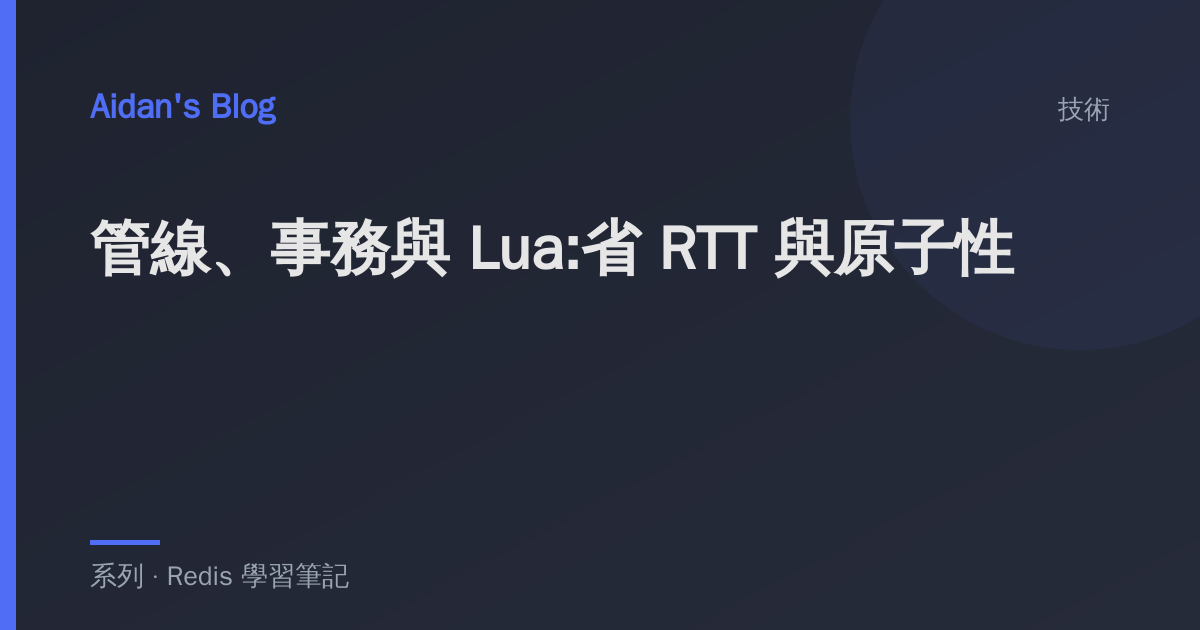
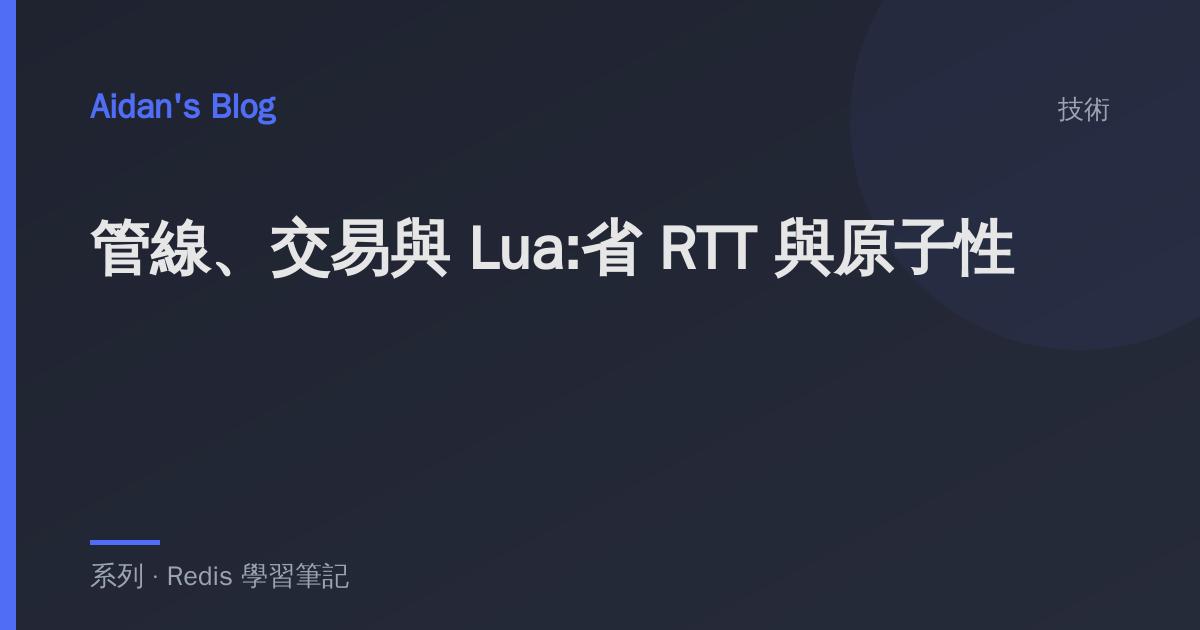
fix(content): 清理三個用詞殘留(並發 / 事務 / 吞吐),共 52 處
全站術語表合併時抓到的既有不一致,規則本身早就存在,只是沒執行:

- 並發 → 並行(25 處):風格指南 A 區既有規則。集中在 ddia-transactions,
  另有 ddia-replication / ddia-streaming / redis-* / sre-cascading-failures。
  全部是 concurrency 語意,無誤判(平行 = parallelism 保持不動)。
- 事務 → 交易(21 處):全站 113:21,21 處全在 Redis 系列(該系列自己也
  混用 交易 4 : 事務 21)。
- 吞吐 → throughput(6 處):風格指南 D 區 2026-07-17 已規定環境語意一律
  英文。逐處處理而非全域替換,因為英文詞前後要留空格,而且有兩處在 SVG 裡。

檢查過的事:

- 沒有誤判:並發無「並發症」類詞、事務無「事務所」類詞。
- 錨點安全:改到兩個 h3 標題,全站唯一的 [[slug#錨點]] 連結指向 btl-5,
  不受影響。
- URL 不變:只有 redis-pipeline-transaction 的 title 改動(管線、事務 →
  管線、交易),檔名與 slug 不動,OG 圖已重生。
- SVG 沒撐爆:responsibility-funnel 的「整條產線的 throughput 上限」實際
  render 過,置中後仍在 viewBox 內、不與下一行碰撞。

npm run build 通過、npm test 86/86 通過。

Claude-Session: https://claude.ai/code/session_01HNr2b3q1MjNhRiDCmNnmup

Changed region(s): [[0.2158, 0.3317, 0.3392, 0.4524]]

diff --git a/src/content/blog/redis-cache-patterns.md b/src/content/blog/redis-cache-patterns.md
@@ -2,7 +2,7 @@
 title: "快取三大災難:穿透、擊穿、雪崩,與正確解法"
 date: 2026-07-17
 category: tech
-description: "把 Redis 當快取,最經典的模式是 cache-aside,但它有三個著名破口:穿透(查根本不存在的 key,cache 永遠擋不住)、擊穿(單一熱 key 剛好過期,並發全湧向 DB)、雪崩(大量 key 同時過期,DB 大範圍被打爆)。三個名字很像、常被搞混,但其實是三種不同的失敗——穿透是查不存在、擊穿是一個熱點、雪崩是一大片。這篇把三者的差別講清楚,並對症下藥:空值快取加布隆過濾器、互斥鎖重建、隨機 TTL 打散。"
+description: "把 Redis 當快取,最經典的模式是 cache-aside,但它有三個著名破口:穿透(查根本不存在的 key,cache 永遠擋不住)、擊穿(單一熱 key 剛好過期,並行全湧向 DB)、雪崩(大量 key 同時過期,DB 大範圍被打爆)。三個名字很像、常被搞混,但其實是三種不同的失敗——穿透是查不存在、擊穿是一個熱點、雪崩是一大片。這篇把三者的差別講清楚,並對症下藥:空值快取加布隆過濾器、互斥鎖重建、隨機 TTL 打散。"
 tags:
   - redis
   - cache
@@ -18,7 +18,7 @@ draft: false
 先把三者的**差別**講清楚——搞懂它們「破在哪」,解法就不會亂套:
 
 <figure style="margin:1.5rem 0;text-align:center;">
-  <svg viewBox="0 0 580 210" role="img" aria-label="快取三大災難的對比。穿透是查根本不存在的 key,cache 和資料庫都沒有,cache 擋不住所以每次都直達資料庫。擊穿是單一熱門 key 剛好過期,瞬間大量並發同時 miss 全湧向資料庫重建。雪崩是大量 key 在同一時間一起過期,大範圍 miss 把資料庫打崩引發連鎖。三者共通點都是請求繞過 cache 打爆資料庫,差別在破口:不存在的 key、一個熱點、一大片。" style="width:100%;max-width:600px;height:auto;margin:0 auto;">
+  <svg viewBox="0 0 580 210" role="img" aria-label="快取三大災難的對比。穿透是查根本不存在的 key,cache 和資料庫都沒有,cache 擋不住所以每次都直達資料庫。擊穿是單一熱門 key 剛好過期,瞬間大量並行同時 miss 全湧向資料庫重建。雪崩是大量 key 在同一時間一起過期,大範圍 miss 把資料庫打崩引發連鎖。三者共通點都是請求繞過 cache 打爆資料庫,差別在破口:不存在的 key、一個熱點、一大片。" style="width:100%;max-width:600px;height:auto;margin:0 auto;">
     <text x="290" y="20" fill="#e6e6e6" font-size="10.5" text-anchor="middle" font-weight="bold">三種破口,長得不一樣</text>
     <rect x="10" y="32" width="182" height="130" rx="8" fill="#3a2d1f" stroke="#e0733a" stroke-width="1.4"/>
     <text x="101" y="52" fill="#e0733a" font-size="10" text-anchor="middle" font-weight="bold">穿透 Penetration</text>
@@ -29,7 +29,7 @@ draft: false
     <rect x="199" y="32" width="182" height="130" rx="8" fill="#3a3320" stroke="#d6a45c" stroke-width="1.4"/>
     <text x="290" y="52" fill="#d6a45c" font-size="10" text-anchor="middle" font-weight="bold">擊穿 Breakdown</text>
     <rect x="219" y="62" width="142" height="24" rx="4" fill="#1f2330" stroke="#d6a45c" stroke-width="1"/><text x="290" y="78" fill="#e6e6e6" font-size="8" text-anchor="middle">單一熱 key ⏰ 剛過期</text>
-    <text x="290" y="104" fill="#9aa4b2" font-size="8" text-anchor="middle">瞬間大量並發同時 miss</text>
+    <text x="290" y="104" fill="#9aa4b2" font-size="8" text-anchor="middle">瞬間大量並行同時 miss</text>
     <text x="290" y="122" fill="#9aa4b2" font-size="8" text-anchor="middle">→ 全湧向 DB 重建</text>
     <text x="290" y="146" fill="#d6a45c" font-size="8.6" text-anchor="middle" font-weight="bold">集中打一個點</text>
     <rect x="388" y="32" width="182" height="130" rx="8" fill="#3a2632" stroke="#e05a7d" stroke-width="1.4"/>
@@ -41,7 +41,7 @@ draft: false
     <text x="290" y="184" fill="#9aa4b2" font-size="8.4" text-anchor="middle">共通:請求繞過 cache 打爆 DB;差別在破口——</text>
     <text x="290" y="200" fill="#d6a45c" font-size="8.4" text-anchor="middle" font-weight="bold">不存在的 key(穿透)· 一個熱點(擊穿)· 一大片(雪崩)</text>
   </svg>
-  <figcaption style="font-size:.85rem;color:#9aa4b2;margin-top:.4rem;">一句話記住差別:<b style="color:#e0733a">穿透</b>是查「<b>不存在</b>」的資料,cache 和 DB 都沒有,所以每一次都會打到 DB;<b style="color:#d6a45c">擊穿</b>是「<b>一個</b>熱門 key」剛好過期的瞬間,大量並發同時撲空、集中打向那一個點;<b style="color:#e05a7d">雪崩</b>是「<b>一大片</b> key」同時失效(常因為都設一樣的 TTL,或 Redis 整台掛掉),造成大範圍崩塌。搞清楚是「不存在 / 一個熱點 / 一大片」,才知道該用哪種解法</figcaption>
+  <figcaption style="font-size:.85rem;color:#9aa4b2;margin-top:.4rem;">一句話記住差別:<b style="color:#e0733a">穿透</b>是查「<b>不存在</b>」的資料,cache 和 DB 都沒有,所以每一次都會打到 DB;<b style="color:#d6a45c">擊穿</b>是「<b>一個</b>熱門 key」剛好過期的瞬間,大量並行同時撲空、集中打向那一個點;<b style="color:#e05a7d">雪崩</b>是「<b>一大片</b> key」同時失效(常因為都設一樣的 TTL,或 Redis 整台掛掉),造成大範圍崩塌。搞清楚是「不存在 / 一個熱點 / 一大片」,才知道該用哪種解法</figcaption>
 </figure>
 
 ## 對症下藥:三種破口,三種補法
@@ -66,7 +66,7 @@ draft: false
   <figcaption style="font-size:.85rem;color:#9aa4b2;margin-top:.4rem;"><b style="color:#e0733a">穿透</b>用「<b>空值也快取</b>」把不存在的查詢也擋在 cache(配短 TTL 避免髒資料),更嚴謹再加<b>布隆過濾器</b>在最前面攔掉一定不存在的 key;<b style="color:#d6a45c">擊穿</b>用<b>互斥鎖</b>,讓熱 key 過期時只有一個請求去重建、其餘乖乖等,避免萬箭齊發;<b style="color:#e05a7d">雪崩</b>用<b>隨機 TTL</b> 把過期時間錯開,別讓大家在同一秒到期——這招跟 <a href="/blog/sre-cron/">可靠 cron</a> 對付午夜驚群的 jitter,是同一個道理</figcaption>
 </figure>
 
-三種解法的手法不同,但骨子裡是同一句話:**別讓失敗集中在同一個時間、同一個點。** 空值快取是「把打不到的擋在門外」、互斥鎖是「把並發收斂成一個」、隨機 TTL 是「把同時發生的打散開」——擋住、收斂、打散,對應三種集中的破口。至於擊穿要用的互斥鎖,牽涉到「怎麼在分散式下正確地搶一把鎖」,那本身是個大題目,留到下一篇的分散式鎖細講。
+三種解法的手法不同,但骨子裡是同一句話:**別讓失敗集中在同一個時間、同一個點。** 空值快取是「把打不到的擋在門外」、互斥鎖是「把並行收斂成一個」、隨機 TTL 是「把同時發生的打散開」——擋住、收斂、打散,對應三種集中的破口。至於擊穿要用的互斥鎖,牽涉到「怎麼在分散式下正確地搶一把鎖」,那本身是個大題目,留到下一篇的分散式鎖細講。
 
 ## 落成命令:三種補法怎麼下
 
@@ -88,7 +88,7 @@ SET article:404 "" EX 30
 
 ### 三個名字很像,但本質是三種不同的集中
 
-穿透、擊穿、雪崩,我剛學時被這三個中文名搞得暈頭轉向——它們聽起來就像同一件事的三種說法。真正把它們釐清,是我意識到差別只在一個維度:**「打到 DB 的請求,為什麼集中?」** 穿透是因為查的東西根本不存在、cache 這道牆天生擋不住(空間上的漏);擊穿是因為一個熱點在過期瞬間、並發全撞上來(時間上的一個點);雪崩是因為一大片 key 剛好同時到期(時間上的一大片)。把它拆成「不存在 / 一個點 / 一大片」,名字就不再需要死背,而是能從情境自己推出來。**遇到一組容易混淆的術語,找到那個能區分它們的維度,比背定義有用一百倍。**
+穿透、擊穿、雪崩,我剛學時被這三個中文名搞得暈頭轉向——它們聽起來就像同一件事的三種說法。真正把它們釐清,是我意識到差別只在一個維度:**「打到 DB 的請求,為什麼集中?」** 穿透是因為查的東西根本不存在、cache 這道牆天生擋不住(空間上的漏);擊穿是因為一個熱點在過期瞬間、並行全撞上來(時間上的一個點);雪崩是因為一大片 key 剛好同時到期(時間上的一大片)。把它拆成「不存在 / 一個點 / 一大片」,名字就不再需要死背,而是能從情境自己推出來。**遇到一組容易混淆的術語,找到那個能區分它們的維度,比背定義有用一百倍。**
 
 ### 這些解法的共通精神:消除「同步性」
 

diff --git a/src/content/blog/redis-pipeline-transaction.md b/src/content/blog/redis-pipeline-transaction.md
@@ -1,5 +1,5 @@
 ---
-title: "管線、事務與 Lua:省 RTT 與原子性"
+title: "管線、交易與 Lua:省 RTT 與原子性"
 date: 2026-07-21
 category: tech
 tags:
@@ -10,7 +10,7 @@ seriesOrder: 11
 comments: true
 draft: false
 ---
-有三個東西常被混在一起,其實各解**完全不同**的問題:**pipeline** 解「網路來回太多」、**MULTI/EXEC**(事務)解「一組命令要一起執行不被插隊」、**Lua** 解「要原子、又要帶邏輯」。搞混它們,你會拿 pipeline 當事務用、或以為 Redis 事務像資料庫一樣能 rollback——兩個都會踩坑。這篇把三者的分工一次講清。
+有三個東西常被混在一起,其實各解**完全不同**的問題:**pipeline** 解「網路來回太多」、**MULTI/EXEC**(交易)解「一組命令要一起執行不被插隊」、**Lua** 解「要原子、又要帶邏輯」。搞混它們,你會拿 pipeline 當交易用、或以為 Redis 交易像資料庫一樣能 rollback——兩個都會踩坑。這篇把三者的分工一次講清。
 
 ## Pipelining:把 N 次往返壓成 1 次
 
@@ -43,10 +43,10 @@ draft: false
 
 ## MULTI/EXEC:一起執行,但別叫它 ACID
 
-`MULTI` 開一個事務,之後的命令**先排隊不執行**,直到 `EXEC` 才**一次跑完、中間不被別的客戶端插隊**。聽起來像資料庫事務,但有個關鍵差異會嚇到人:**Redis 事務不能 rollback。**
+`MULTI` 開一個交易,之後的命令**先排隊不執行**,直到 `EXEC` 才**一次跑完、中間不被別的客戶端插隊**。聽起來像資料庫交易,但有個關鍵差異會嚇到人:**Redis 交易不能 rollback。**
 
 <figure style="margin:1.5rem 0;text-align:center;">
-  <svg viewBox="0 0 580 212" role="img" aria-label="MULTI EXEC 事務與 WATCH 樂觀鎖。上排:MULTI 之後命令先排隊不執行,EXEC 時一次跑完、中間不被插隊,達成隔離。但沒有 rollback,如果某一條在執行時出錯,例如對一個 String 下 LPUSH,那一條失敗,後面的命令照樣執行。下排:WATCH 盯著一把 key,如果在 EXEC 之前這把 key 被別的客戶端改過,EXEC 就回 nil、整個事務作廢,由你自己重試,這是樂觀鎖 CAS。" style="width:100%;max-width:600px;height:auto;margin:0 auto;">
+  <svg viewBox="0 0 580 212" role="img" aria-label="MULTI EXEC 交易與 WATCH 樂觀鎖。上排:MULTI 之後命令先排隊不執行,EXEC 時一次跑完、中間不被插隊,達成隔離。但沒有 rollback,如果某一條在執行時出錯,例如對一個 String 下 LPUSH,那一條失敗,後面的命令照樣執行。下排:WATCH 盯著一把 key,如果在 EXEC 之前這把 key 被別的客戶端改過,EXEC 就回 nil、整個交易作廢,由你自己重試,這是樂觀鎖 CAS。" style="width:100%;max-width:600px;height:auto;margin:0 auto;">
     <defs><marker id="mt" markerWidth="7" markerHeight="7" refX="5" refY="3" orient="auto"><path d="M0,0 L0,6 L6,3 z" fill="#9aa4b2"/></marker></defs>
     <text x="290" y="16" fill="#e6e6e6" font-size="10.5" text-anchor="middle" font-weight="bold">MULTI/EXEC:一起執行不被插隊,但不能 rollback</text>
     <rect x="16" y="30" width="66" height="30" rx="6" fill="#26324a" stroke="#4f6df5" stroke-width="1.4"/><text x="49" y="49" fill="#4f6df5" font-size="9" text-anchor="middle" font-weight="bold">MULTI</text>
@@ -65,7 +65,7 @@ draft: false
     <rect x="398" y="138" width="168" height="36" rx="6" fill="#3a2626" stroke="#e05a7d" stroke-width="1.3"/><text x="482" y="153" fill="#e05a7d" font-size="8" text-anchor="middle">被改 → EXEC 回 nil 作廢</text><text x="482" y="167" fill="#9aa4b2" font-size="7" text-anchor="middle">→ 你自己重試</text>
     <text x="290" y="198" fill="#9aa4b2" font-size="8" text-anchor="middle">MULTI 給你「一起跑、不被插隊」;WATCH 給你「有人搶先就作廢」——但都不是 rollback</text>
   </svg>
-  <figcaption style="font-size:.85rem;color:#9aa4b2;margin-top:.4rem;">Redis 事務保證的是<b style="color:#54b890">「一起執行、不被插隊」</b>(隔離),而<b style="color:#e05a7d">不是「全成功或全失敗」</b>——某條命令在執行時出錯,前後的命令<b>照樣執行</b>,不會回滾。(唯一例外:命令有語法錯,`EXEC` 前就會整批拒絕。)要處理「讀了再改」的競態,配 <b style="color:#d6a45c">WATCH</b>:盯住一把 key,只要它在 <code>EXEC</code> 前被別人改過,整個事務就<b>作廢回 nil</b>,由你重試——這是樂觀鎖(CAS),不是鎖住別人,是「有人搶先我就重來」</figcaption>
+  <figcaption style="font-size:.85rem;color:#9aa4b2;margin-top:.4rem;">Redis 交易保證的是<b style="color:#54b890">「一起執行、不被插隊」</b>(隔離),而<b style="color:#e05a7d">不是「全成功或全失敗」</b>——某條命令在執行時出錯,前後的命令<b>照樣執行</b>,不會回滾。(唯一例外:命令有語法錯,`EXEC` 前就會整批拒絕。)要處理「讀了再改」的競態,配 <b style="color:#d6a45c">WATCH</b>:盯住一把 key,只要它在 <code>EXEC</code> 前被別人改過,整個交易就<b>作廢回 nil</b>,由你重試——這是樂觀鎖(CAS),不是鎖住別人,是「有人搶先我就重來」</figcaption>
 </figure>
 
 落成命令,一個「安全扣款」的樂觀鎖長這樣:
@@ -98,11 +98,11 @@ end
 
 ### 「省 RTT」和「原子性」是兩個問題,先分清是哪個
 
-我看過最常見的誤用,是拿 pipeline 當事務——以為把命令打包送出,它們就會「一起、不被打斷」。不會。**pipeline 解的是網路(來回太多),事務/Lua 解的是並行(不想被插隊),這是兩個維度。** 想通這點後,我選工具的第一問永遠是:**我現在痛的是網路,還是並行?** 痛網路(要打幾百條命令)就 pipeline;痛並行(這幾步不能被別人插進來)就 MULTI 或 Lua。把問題歸對類,工具自己就選好了——這比背 API 有用得多。
+我看過最常見的誤用,是拿 pipeline 當交易——以為把命令打包送出,它們就會「一起、不被打斷」。不會。**pipeline 解的是網路(來回太多),交易/Lua 解的是並行(不想被插隊),這是兩個維度。** 想通這點後,我選工具的第一問永遠是:**我現在痛的是網路,還是並行?** 痛網路(要打幾百條命令)就 pipeline;痛並行(這幾步不能被別人插進來)就 MULTI 或 Lua。把問題歸對類,工具自己就選好了——這比背 API 有用得多。
 
-### Redis 「事務不能 rollback」不是缺陷,是誠實
+### Redis 「交易不能 rollback」不是缺陷,是誠實
 
-第一次知道 Redis 事務不會回滾,我有點傻眼——那還叫事務嗎?後來理解那是**刻意的取捨**:Redis 認為命令在執行期出錯,幾乎都是「你程式寫錯了」(對 String 用了 List 命令),那種錯就算 rollback 也救不回邏輯,不如保持引擎簡單快速、不背 rollback 這個重擔。它沒有假裝自己是關聯式資料庫。這件事教我一個看功能的習慣:**別被名字唬住,去看它「實際保證什麼」。** 「事務」「Secret」「鎖」這些詞都自帶光環,但光環底下的真實保證,常常比名字窄。真正要對照完整 ACID 的,還是回去看 [[sql-transactions|資料庫的事務]];Redis 的「事務」,就當它是「一批不被插隊的命令」來用,剛剛好。
+第一次知道 Redis 交易不會回滾,我有點傻眼——那還叫交易嗎?後來理解那是**刻意的取捨**:Redis 認為命令在執行期出錯,幾乎都是「你程式寫錯了」(對 String 用了 List 命令),那種錯就算 rollback 也救不回邏輯,不如保持引擎簡單快速、不背 rollback 這個重擔。它沒有假裝自己是關聯式資料庫。這件事教我一個看功能的習慣:**別被名字唬住,去看它「實際保證什麼」。** 「交易」「Secret」「鎖」這些詞都自帶光環,但光環底下的真實保證,常常比名字窄。真正要對照完整 ACID 的,還是回去看 [[sql-transactions|資料庫的交易]];Redis 的「交易」,就當它是「一批不被插隊的命令」來用,剛剛好。
 
 ### Lua 的哲學:把邏輯搬到資料旁邊
 

diff --git a/src/content/blog/ddia-streaming.md b/src/content/blog/ddia-streaming.md
@@ -19,7 +19,7 @@ draft: false
 真實系統裡,同一份資料常要同時存在好幾個地方:DB 是主存放、Redis 是快取、Elasticsearch 是搜尋索引。最直覺的做法是**應用程式自己分頭寫三份(dual write)**——而這正是最常見的沉默資料事故的源頭:
 
 <figure style="margin:1.5rem 0;text-align:center;">
-  <svg viewBox="0 0 580 250" role="img" aria-label="雙寫陷阱與 log 先行的對比。左邊雙寫:應用程式分頭把同一筆更新寫進資料庫、快取、搜尋索引三個系統。兩個病:一,部分失敗——寫完 DB 之後應用當掉,快取與索引沒寫到,而且沒有交易能跨系統回滾;二,亂序——兩個並發請求寫入三個系統的到達順序不同,DB 收到先 A 後 B、快取收到先 B 後 A,兩邊收斂到不同的最終值。結果:三個系統永久分歧,而且無聲無息。右邊 log 先行:只寫一個地方(log 或資料庫),所有下游按同一順序消費同一條 log,快取、索引都是 follower,順序一致、掉了可以重放,最終一致。" style="width:100%;max-width:620px;height:auto;margin:0 auto;">
+  <svg viewBox="0 0 580 250" role="img" aria-label="雙寫陷阱與 log 先行的對比。左邊雙寫:應用程式分頭把同一筆更新寫進資料庫、快取、搜尋索引三個系統。兩個病:一,部分失敗——寫完 DB 之後應用當掉,快取與索引沒寫到,而且沒有交易能跨系統回滾;二,亂序——兩個並行請求寫入三個系統的到達順序不同,DB 收到先 A 後 B、快取收到先 B 後 A,兩邊收斂到不同的最終值。結果:三個系統永久分歧,而且無聲無息。右邊 log 先行:只寫一個地方(log 或資料庫),所有下游按同一順序消費同一條 log,快取、索引都是 follower,順序一致、掉了可以重放,最終一致。" style="width:100%;max-width:620px;height:auto;margin:0 auto;">
     <defs><marker id="dw" markerWidth="7" markerHeight="7" refX="5" refY="3" orient="auto"><path d="M0,0 L0,6 L6,3 z" fill="#e05a7d"/></marker><marker id="dwg" markerWidth="7" markerHeight="7" refX="5" refY="3" orient="auto"><path d="M0,0 L0,6 L6,3 z" fill="#54b890"/></marker></defs>
     <line x1="290" y1="14" x2="290" y2="200" stroke="#3a4154" stroke-width="1" stroke-dasharray="4 4"/>
     <text x="146" y="26" fill="#e05a7d" font-size="9.4" text-anchor="middle" font-weight="bold">✗ 雙寫:應用自己寫三份</text>
@@ -32,7 +32,7 @@ draft: false
     <text x="146" y="140" fill="#e05a7d" font-size="7" text-anchor="middle" font-weight="bold">病一:寫到一半當掉 → 有的寫了有的沒寫</text>
     <text x="146" y="151" fill="#9aa4b2" font-size="6.6" text-anchor="middle">沒有交易能跨三個系統回滾</text>
     <rect x="26" y="162" width="240" height="28" rx="5" fill="#3a2626" stroke="#e05a7d" stroke-width="1.3"/>
-    <text x="146" y="174" fill="#e05a7d" font-size="7" text-anchor="middle" font-weight="bold">病二:並發寫抵達順序不同</text>
+    <text x="146" y="174" fill="#e05a7d" font-size="7" text-anchor="middle" font-weight="bold">病二:並行寫抵達順序不同</text>
     <text x="146" y="185" fill="#9aa4b2" font-size="6.6" text-anchor="middle">DB 收到先A後B、快取先B後A → 收斂到不同值</text>
     <text x="146" y="200" fill="#e05a7d" font-size="7.4" text-anchor="middle" font-weight="bold">→ 三個系統永久分歧,無聲無息</text>
     <text x="434" y="26" fill="#54b890" font-size="9.4" text-anchor="middle" font-weight="bold">✓ log 先行:只寫一個地方</text>
@@ -48,7 +48,7 @@ draft: false
     <rect x="30" y="212" width="520" height="26" rx="6" fill="#1f2330" stroke="#3a4154" stroke-width="1.2"/>
     <text x="290" y="229" fill="#d6a45c" font-size="8" text-anchor="middle" font-weight="bold">一份資料要進 N 個系統?選一個當 source of truth,其他全部當 follower</text>
   </svg>
-  <figcaption style="font-size:.85rem;color:#9aa4b2;margin-top:.4rem;"><b style="color:#e05a7d">雙寫</b>的兩個病無藥可醫:<b>部分失敗</b>(寫完 DB 應用當掉,快取沒跟上——跨系統沒有交易能回滾)與<b>亂序</b>(兩個並發寫抵達三個系統的順序不同,各自收斂到不同值)——三個系統<b>永久分歧,而且無聲無息</b>。<b style="color:#54b890">Log 先行</b>把問題結構性地消滅:只寫一個地方(一條有順序的 log),所有下游照<b>同一順序</b>消費——順序一致、掉了從 offset 重放。這其實就是 <a href="/blog/ddia-replication/">複製</a>那章的 leader–follower,推廣到「異質系統之間」:<b>選一個 source of truth,其他全部當 follower</b></figcaption>
+  <figcaption style="font-size:.85rem;color:#9aa4b2;margin-top:.4rem;"><b style="color:#e05a7d">雙寫</b>的兩個病無藥可醫:<b>部分失敗</b>(寫完 DB 應用當掉,快取沒跟上——跨系統沒有交易能回滾)與<b>亂序</b>(兩個並行寫抵達三個系統的順序不同,各自收斂到不同值)——三個系統<b>永久分歧,而且無聲無息</b>。<b style="color:#54b890">Log 先行</b>把問題結構性地消滅:只寫一個地方(一條有順序的 log),所有下游照<b>同一順序</b>消費——順序一致、掉了從 offset 重放。這其實就是 <a href="/blog/ddia-replication/">複製</a>那章的 leader–follower,推廣到「異質系統之間」:<b>選一個 source of truth,其他全部當 follower</b></figcaption>
 </figure>
 
 ## CDC:讓資料庫自己變成事件源頭

diff --git a/src/content/blog/responsibility-funnel.md b/src/content/blog/responsibility-funnel.md
@@ -56,7 +56,7 @@ seriesOrder: 1
 把責任守恆放進日常工作流,就得到漏斗的形狀:
 
 <figure style="margin:1.5rem 0;text-align:center;">
-  <svg viewBox="0 0 640 330" role="img" aria-label="責任漏斗:最上層寬帶是 AI 的大量產出(code、測試、文件、初稿);往下是護欄層(測試、規範、自動檢查);再往下是人的 review 與抽查;最窄的頸是決策與簽名——一個人的名字。右側標注:量往下遞減,責任密度往下遞增。頸寬等於驗收頻寬,是整條產線的吞吐上限。" style="width:100%;max-width:640px;height:auto;margin:0 auto;">
+  <svg viewBox="0 0 640 330" role="img" aria-label="責任漏斗:最上層寬帶是 AI 的大量產出(code、測試、文件、初稿);往下是護欄層(測試、規範、自動檢查);再往下是人的 review 與抽查;最窄的頸是決策與簽名——一個人的名字。右側標注:量往下遞減,責任密度往下遞增。頸寬等於驗收頻寬,是整條產線的 throughput 上限。" style="width:100%;max-width:640px;height:auto;margin:0 auto;">
     <polygon points="60,20 560,20 515,80 105,80" fill="#262b3a" stroke="#4f6df5" stroke-width="1.5"/>
     <text x="310" y="45" fill="#4f6df5" font-size="12" text-anchor="middle" font-weight="bold">AI 產出</text>
     <text x="310" y="65" fill="#9aa4b2" font-size="10" text-anchor="middle">code · 測試 · 文件 · 初稿 · 研究——量大而便宜</text>
@@ -75,13 +75,13 @@ seriesOrder: 1
     <line x1="40" y1="250" x2="40" y2="30" stroke="#e05a7d" stroke-width="1.2"/>
     <polygon points="40,22 35,34 45,34" fill="#e05a7d"/>
     <text x="26" y="240" fill="#e05a7d" font-size="10" text-anchor="start" transform="rotate(-90 26 240)">責任密度遞增</text>
-    <text x="310" y="295" fill="#d6a45c" font-size="11" text-anchor="middle" font-weight="bold">頸寬 = 你能「負責任地驗收」的頻寬 = 整條產線的吞吐上限</text>
+    <text x="310" y="295" fill="#d6a45c" font-size="11" text-anchor="middle" font-weight="bold">頸寬 = 你能「負責任地驗收」的頻寬 = 整條產線的 throughput 上限</text>
     <text x="310" y="315" fill="#9aa4b2" font-size="10" text-anchor="middle">AI 再快,東西都得擠過這裡才能出貨——這是 AI 生產力的 Amdahl 定律</text>
   </svg>
   <figcaption style="font-size:.85rem;color:#9aa4b2;margin-top:.4rem;">往下每一層:東西變少,但每一件的責任變重。頸不是流程的一站,是責任的匯流點。</figcaption>
 </figure>
 
-這張圖有一個工程上的推論,值得單獨講:**整條產線的吞吐量,上限不在 AI 的產出速度,在頸的寬度**。AI 一天能生二十個 PR,你一天能負責任地驗收幾個,產線就只能跑幾個——多出來的要嘛排隊,要嘛沒被真的驗過就流出去(後面會講這有多危險)。平行化再強,守恆的那段就是壓不掉——這是 Amdahl 定律,只是這次不可平行化的部分叫「責任」。
+這張圖有一個工程上的推論,值得單獨講:**整條產線的 throughput,上限不在 AI 的產出速度,在頸的寬度**。AI 一天能生二十個 PR,你一天能負責任地驗收幾個,產線就只能跑幾個——多出來的要嘛排隊,要嘛沒被真的驗過就流出去(後面會講這有多危險)。平行化再強,守恆的那段就是壓不掉——這是 Amdahl 定律,只是這次不可平行化的部分叫「責任」。
 
 所以「用了 AI 之後你的價值是什麼」有了一個具體的答案:**你的價值等於你的頸寬**——你能負責任地驗收多少東西,你就值多少。
 

diff --git a/src/content/blog/ai-incident-clock.md b/src/content/blog/ai-incident-clock.md
@@ -33,7 +33,7 @@ seriesOrder: 2
 
 ## 第一幕:這到底是不是事故?
 
-我給它的全部資訊:留言瀑布正常、量很大、監控無警報、ingestion 吞吐正常;訂單有進來但零零落落,單看訂單流不覺得異常;是主播先發火的,說這種留言熱度不該只有小貓兩三隻;老實說我們自己也不確定是不是事故。它的回覆(節錄):
+我給它的全部資訊:留言瀑布正常、量很大、監控無警報、ingestion throughput 正常;訂單有進來但零零落落,單看訂單流不覺得異常;是主播先發火的,說這種留言熱度不該只有小貓兩三隻;老實說我們自己也不確定是不是事故。它的回覆(節錄):
 
 > 先判斷是不是事故:**算漏斗,不要吵感覺**。別跟主播爭「轉換率」——從直播現場肉眼挑 10–20 則明確的喊單留言,逐一追:有沒有進系統?有沒有被解析成下單意圖?有沒有嘗試建單?訂單有沒有建成?抽樣裡有一成以上卡在中間,就是事故,不用再懷疑。
 > 另外釐清一件事:你說的「留言瀑布正常」是**我們系統內的瀑布,還是平台原生聊天室**?這一題的答案會直接砍掉一半假設。
@@ -66,9 +66,9 @@ seriesOrder: 2
 
 > **P0 止血**:try/catch 移到 per-message,單則失敗只丟該則;失敗留言進 dead-letter,帶原始內容 + exception,**不再無聲放棄**;加 `parse_failed_count` 告警——這次監控全綠的根因就是「**失敗 = 沉默**」。部署後用一則刻意的畸形留言驗證:它單獨進 dead-letter、同批其他訊息存活。
 > **P1 救回這場**:從 raw comments 用時間窗**全量 replay**,不要只補抽樣那 12 則——消失的遠不止抽樣那些;**去重是硬條件**,重複建單比漏單更難收拾;補建訂單打上標記,給營運一份數字:實收留言數、原成單數、補建單數。
-> **P2 事後**:找出毒藥本體補測試案例;消費語義改 at-least-once(處理成功才 ack);監控「**轉換**」而不是只監控「吞吐」——留言進量 vs 解析成功 vs 建單數,比率偏離就告警;postmortem 記兩條:失敗不准沉默、批次必須有 per-item 隔離。**順手盤點提早上線時跳過的驗收清單——這種雷通常不只一顆。**
+> **P2 事後**:找出毒藥本體補測試案例;消費語義改 at-least-once(處理成功才 ack);監控「**轉換**」而不是只監控「throughput」——留言進量 vs 解析成功 vs 建單數,比率偏離就告警;postmortem 記兩條:失敗不准沉默、批次必須有 per-item 隔離。**順手盤點提早上線時跳過的驗收清單——這種雷通常不只一顆。**
 
-對照當年:per-message 隔離就是我們事故後的止血;dead-letter 是[[rezero-comment-order|重來版]]才補上的第三步;「監控轉換而非吞吐」是[[rezero-flash-crowd|戰記反思]]裡「給批次積壓裝儀表」的同一課。**當年用一場事故加一次重來才收斂到的答案,這裡是三輪對話**——連「這種雷通常不只一顆」這句經驗談都到位了。
+對照當年:per-message 隔離就是我們事故後的止血;dead-letter 是[[rezero-comment-order|重來版]]才補上的第三步;「監控轉換而非 throughput」是[[rezero-flash-crowd|戰記反思]]裡「給批次積壓裝儀表」的同一課。**當年用一場事故加一次重來才收斂到的答案,這裡是三輪對話**——連「這種雷通常不只一顆」這句經驗談都到位了。
 
 ## 這場實驗說明了什麼
 

diff --git a/src/content/blog/ddia-replication.md b/src/content/blog/ddia-replication.md
@@ -56,7 +56,7 @@ draft: false
   <figcaption style="font-size:.85rem;color:#9aa4b2;margin-top:.4rem;"><b style="color:#4f6df5">單主</b>:所有寫入走唯一的 leader——衝突在<b>源頭就被消滅</b>(只有一個寫入點),代價是 leader 掛了的 <b>failover</b> 很難(<a href="/blog/redis-sentinel/">誰發現、誰接任、怎麼不裂腦</a>)。<b style="color:#d6a45c">多主</b>:多個資料中心各自有 leader 就近收寫、互相同步——斷網也能寫,但<b>兩邊同時改同一筆</b>的衝突,得事後解決(誰贏?怎麼合併?)。<b style="color:#9b6ff0">無主</b>:沒有 leader,客戶端直接同時寫多個副本、讀也多讀幾份,靠 <b>w + r &gt; n</b> 的重疊保證讀到新值——不用 failover,但讀寫路徑變複雜(讀到舊值要 read repair 補寫回去)。<b>衝突不會消失,只會搬家</b>——三種拓撲,是選它搬去哪</figcaption>
 </figure>
 
-無主那個 **quorum** 值得多一句:n 份副本,寫入要 **w** 份確認、讀取要問 **r** 份,只要 **w + r > n**(例如 n=3、w=2、r=2),讀跟寫的集合**必有交集**,你一定會碰到至少一份最新值(再從中挑新的)。數學很漂亮——但 DDIA 誠實地列了它的邊角:並發寫入的先後難定、寫入部分失敗不回滾、sloppy quorum 時保證會鬆動。**它是機率上很強的工程保證,不是絕對的數學證明**,這個分寸後面講[[sre-consensus|共識]]時會再回來。
+無主那個 **quorum** 值得多一句:n 份副本,寫入要 **w** 份確認、讀取要問 **r** 份,只要 **w + r > n**(例如 n=3、w=2、r=2),讀跟寫的集合**必有交集**,你一定會碰到至少一份最新值(再從中挑新的)。數學很漂亮——但 DDIA 誠實地列了它的邊角:並行寫入的先後難定、寫入部分失敗不回滾、sloppy quorum 時保證會鬆動。**它是機率上很強的工程保證,不是絕對的數學證明**,這個分寸後面講[[sre-consensus|共識]]時會再回來。
 
 ## 複製延遲的三個怪象:有名字,才能對症下藥
 

diff --git a/src/content/blog/redis-pubsub-stream.md b/src/content/blog/redis-pubsub-stream.md
@@ -103,4 +103,4 @@ Redis Stream 讓我很有感的一點:它幾乎是把 Kafka 的核心——appen
 
 ### 收尾:Redis 的每一面,都在證明「它不只是快取」
 
-寫到這篇,整個 [[redis-intro|Redis 系列]]剛好收口。回頭看這一路——資料結構、單執行緒、持久化、過期淘汰、快取三災、分散式鎖、複製、Sentinel、Cluster、事務與 Lua、到這篇的訊息系統——每一面其實都在證明開篇那句話:**Redis 是一台記憶體資料結構伺服器,「快取」只是它最出名的一個用法。** 它能當鎖、當佇列、當排行榜、當計數器、當輕量訊息 log,是因為它給了你一套**又快又原子的資料結構**,剩下的是你怎麼組合。這也是我最想留給讀完整個系列的你的一句話:**別把 Redis 框在「快取」那個小盒子裡**——當你開始把它當「手邊一台隨叫隨到的資料結構伺服器」,很多原本要架大東西才能解的問題,會突然變得又輕又簡單。
+寫到這篇,整個 [[redis-intro|Redis 系列]]剛好收口。回頭看這一路——資料結構、單執行緒、持久化、過期淘汰、快取三災、分散式鎖、複製、Sentinel、Cluster、交易與 Lua、到這篇的訊息系統——每一面其實都在證明開篇那句話:**Redis 是一台記憶體資料結構伺服器,「快取」只是它最出名的一個用法。** 它能當鎖、當佇列、當排行榜、當計數器、當輕量訊息 log,是因為它給了你一套**又快又原子的資料結構**,剩下的是你怎麼組合。這也是我最想留給讀完整個系列的你的一句話:**別把 Redis 框在「快取」那個小盒子裡**——當你開始把它當「手邊一台隨叫隨到的資料結構伺服器」,很多原本要架大東西才能解的問題,會突然變得又輕又簡單。

diff --git a/src/content/blog/redis-cluster.md b/src/content/blog/redis-cluster.md
@@ -42,7 +42,7 @@ draft: false
 
 ## 一個限制:multi-key 操作與 hash tag
 
-分片帶來一個逃不掉的限制:**跨 slot 的 multi-key 操作不允許**。`MGET a b c`、`MULTI` 事務、Lua 腳本裡碰多把 key——只要這些 key 落在不同 slot(多半在不同 node),Redis 直接回錯,因為它不做跨節點的協調。
+分片帶來一個逃不掉的限制:**跨 slot 的 multi-key 操作不允許**。`MGET a b c`、`MULTI` 交易、Lua 腳本裡碰多把 key——只要這些 key 落在不同 slot(多半在不同 node),Redis 直接回錯,因為它不做跨節點的協調。
 
 解法是 **hash tag**:在 key 裡用大括號 `{}` 圈一段,Redis 就**只拿大括號裡的內容去算 slot**。把相關的 key 綁同一個 tag,它們就保證落在同一個 slot、同一台:
 

diff --git a/src/content/blog/sre-cascading-failures.md b/src/content/blog/sre-cascading-failures.md
@@ -70,7 +70,7 @@ draft: false
 
 - **重試要有節制**:限次數、**指數退避(exponential backoff)+ 抖動(jitter)**(別讓大家同時重試)、**retry budget**(整體重試量設上限)。沒節制的重試,是連鎖失效最大的幫兇。
 - **Circuit breaker(斷路器)**:偵測到某個下游一直失敗,就**先不打了**(快速失敗),給它喘息、也不讓自己被拖住,過一陣再試探性放行。
-- **限流 / 限並發(rate limiting)**:在入口就擋掉超過容量的量,別讓它進來排隊。
+- **限流 / 限並行(rate limiting)**:在入口就擋掉超過容量的量,別讓它進來排隊。
 - **容量規劃 + load shedding**:平時留餘裕,過載時主動卸載——**在崩潰前就丟,而不是崩了才丟。**
 
 ## 反思
